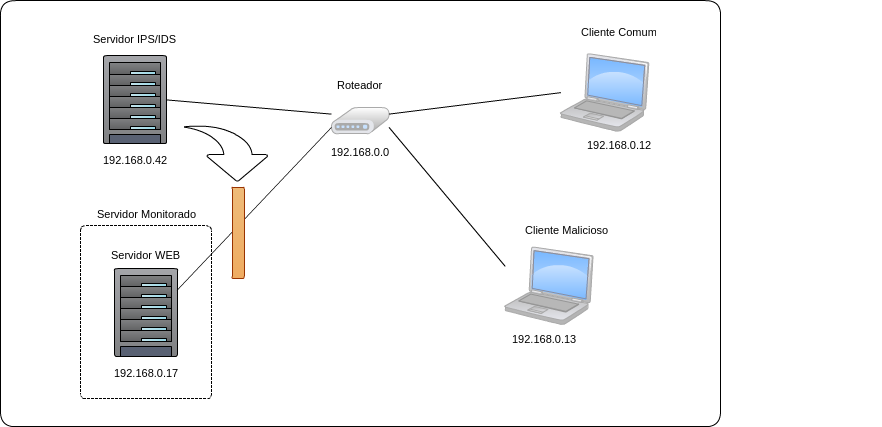
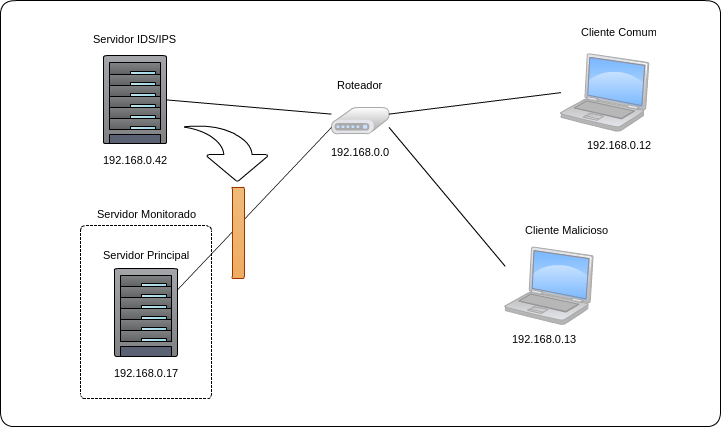
Alteração na imagem da arquitetura e algumas correções de português

diff --git a/source/Simulacao.tex b/source/Simulacao.tex
@@ -46,9 +46,9 @@ Foram enviados 19 pacotes com intervalo de aproximadamente um segundo entre cada
  \end{figure}
 
  A figura \ref{fig:ping_servidor} apresenta vários dados dos pacotes capturados.
- Neste caso, há o nível de periculosidade da regra identificada, a interface de rede
+ Neste caso, o nível de periculosidade da regra identificada, a interface de rede
  utilizada para a captura, no caso o Alpha eth0, endereços de IP de origem e destino,
- A mensagem transmitida pela regra, o pacote descrito em hexadecimal ou em
+ a mensagem transmitida pela regra, o pacote descrito em hexadecimal ou em
  Ascii, conforme a necessidade do usuário.
 
  A regra utilizada para capturar pacotes utilizado pela ferramenta ping
@@ -94,7 +94,7 @@ O servidor com o Snort instalado observa a varredura feita na rede pelo atacante
 
 	 \section{Geração de Ruído com FootPrint}
 	 \label{sec:Geracao_de_Ruido_com_FootPrint}
-	 Esta geração de ruído consiste em um Port Scan Utilizado para identificar quais
+	 Esta geração de ruído consiste em um Port Scan utilizado para identificar quais
 	 portas estão abertas em um determinado IP, além de visualizar quais os serviços
 	 que estão sendo providos e a versão.
 
@@ -127,7 +127,7 @@ O servidor com o Snort instalado observa a varredura feita na rede pelo atacante
   \label{fig:vitima_log_port_scan}
   \end{figure}
 
-	O servidor Identificou uma série de portas e caracteríticas sendo analisadas na
+	O servidor identificou uma série de portas e caracteríticas sendo analisadas na
 	vítima, dentre elas:
 
 	\begin{itemize}
@@ -157,7 +157,7 @@ O servidor com o Snort instalado observa a varredura feita na rede pelo atacante
 	\section{Flood Attack}
 	\label{sec:Flood_Attack}
 	Este ataque foi utilizado enviando vários pacotes na maior velocidade possível.
-	Para tal, foi utilizada a ferramenta hping3 com o seguinte comando:
+	Para tanto, foi utilizada a ferramenta hping3 com o seguinte comando:
 
 \begin{framed}
 	hping3 -c 10000 -d 120 -S -w 64 -p 21 --flood --rand-source 192.168.0.18
@@ -174,8 +174,8 @@ O servidor com o Snort instalado observa a varredura feita na rede pelo atacante
   \end{figure}
 
 	O servidor Snort por sua vez, detectou todos os ataque realizados. Ele identifica
-	o ataque retornando a mensagem: ET FROP Spamhaus DROP Listed Traffic Inbound. O
-	log dos pacotes por parte do server pode ser visto na figura \ref{fig:vitima_flood}.
+	o ataque retornando a mensagem: \emph{"ET FROP Spamhaus DROP Listed Traffic Inbound"}. O
+	log dos pacotes por parte do servidor pode ser visto na figura \ref{fig:vitima_flood}.
 
 	 \begin{figure}[h]
  	 \centering
@@ -188,19 +188,19 @@ O servidor com o Snort instalado observa a varredura feita na rede pelo atacante
 \label{sec:Brute_Force_SSH}
 	Os ataques citados até agora testaram apenas o serviço IDS do sistema, este agora
 	será responsável por testar o serviço IPS ao perceber que o atacante está com más
-	intenções para com a vítima atacante.
+	intenções para com a vítima atacada.
 
-	O ataque utilizou a ferramenta de força bruta hydra, a qual utiliza uma lista
-	de senhas para atacar um determinado servidor ssh com um determinado nome de
-	usuário ou uma lista deles. Neste caso, utilizamos o usuário root, na porta 22,
+	O ataque utilizou a ferramenta de força bruta \emph{hydra}, a qual utiliza uma lista
+	de senhas para atacar um determinado servidor SSH com um determinado nome de
+	usuário ou uma lista deles. Neste caso, utilizamos o usuário \emph{root}, na porta 22,
 	com a lista de senhas e o endereço do servidor.
 
 	\begin{framed}
 		hydra -s 22 -v -l root -P /home/teslla/Downloads/tech.lst -t 10 192.168.0.18 ssh
 	\end{framed}
 
-	Este comando foi aplicado no atacante, que iniciou os ataques. Logo o servidor
-	começou a identificar os pacotes maliciosos, vistos na figura \ref{fig:ssh_vitima}.
+	Este comando foi aplicado no atacante, que iniciou os ataques. Logo, o servidor
+	começou a identificar os pacotes maliciosos vistos na figura \ref{fig:ssh_vitima}.
 
 	\begin{figure}[h]
 		\centering
@@ -209,6 +209,6 @@ O servidor com o Snort instalado observa a varredura feita na rede pelo atacante
 		\label{fig:ssh_vitima}
 	\end{figure}
 	\newpage
- 	Quando o servidor percebeu que se tratava de um ataque brute force, este bloqueou
-	o tráfico advindo do atacante e o hydra ficou travado. Exemplificando o serviço
-	do IPS disponível no Security Onion.
+ 	Quando o servidor percebeu que se tratava de um ataque \emph{brute force}, este bloqueou
+	o tráfico advindo do atacante e o \emph{hydra} ficou travado. Exemplificando o serviço
+	do IPS disponível no sistema operacional Security Onion.

diff --git a/source/Seguranca.tex b/source/Seguranca.tex
@@ -48,8 +48,8 @@
 		\begin{itemize}
 			\item Ping;
 			\item Fingerprint;
-			\item Footprint
-			\item Flood Attack
-			\item Brute Force
+			\item Footprint;
+			\item Flood Attack;
+			\item Brute Force.
 		\end{itemize} 
 
